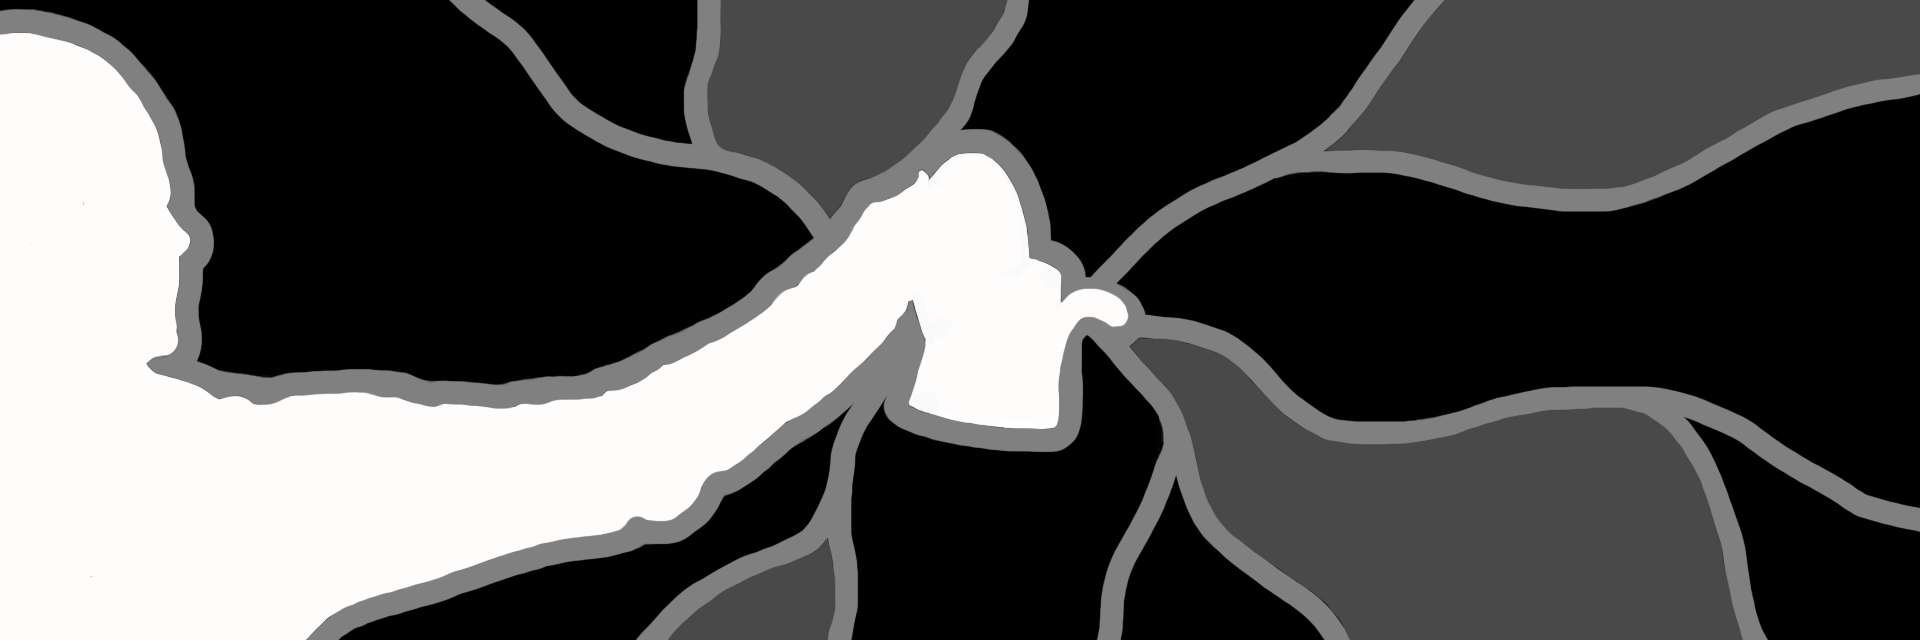
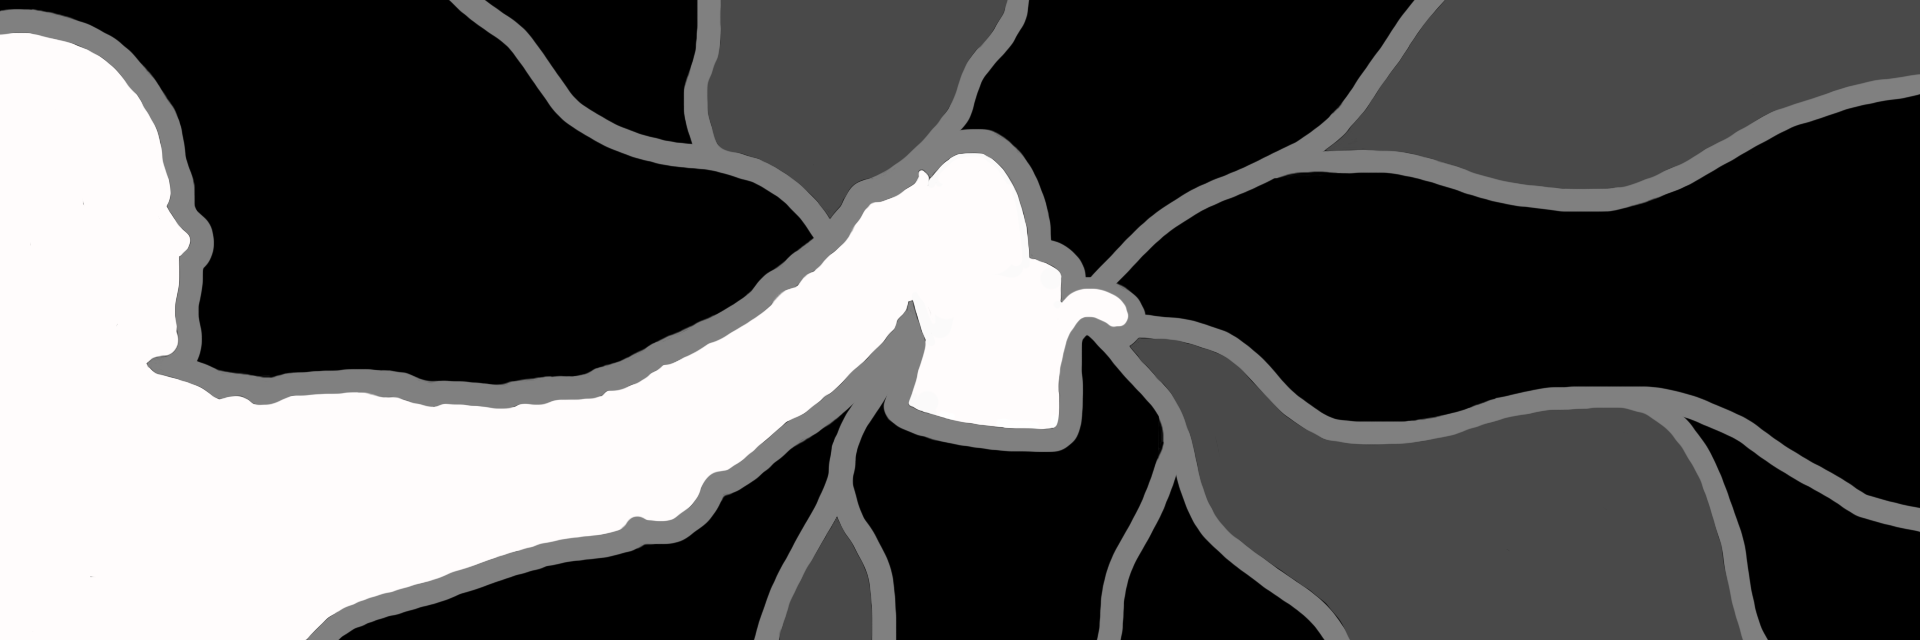
change of masks

Changed region(s): [[0.3125, 0.7812, 0.4688, 1.0]]

diff --git a/sketch.js b/sketch.js
@@ -37,7 +37,7 @@ function draw() {
     let pixMod = sourceImg.get(x, y);
     console.log(mask[0]);
 
-    if (mask[0] == 73) { //dark grey mask (red)
+    if (mask[0] > 66 && mask[0] < 74) { //dark grey mask (red)
       let pixMod = sourceImg.get(x, y);
       let mask = maskImg.get(x, y);
       pixMod[0] = pixMod[0] * 2;

diff --git a/README.md b/README.md
@@ -1,3 +1,3 @@
 ## Creative Coding 2: Custom Pixel
 
-Been struggling with the 3rd image and adjusting the original image to be the same brightness as the others. Might have to quickly re-shoot these ones. Need to fix up the mask on the 2nd image as well, as there is a glitch with the white mask. 
+Want to change the masks so that each mask is a different idea from the 1st one so gives it more variety and use different graphic design concepts. 
